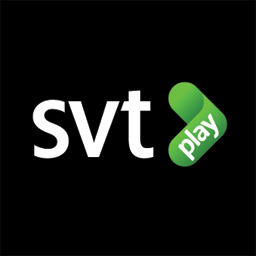
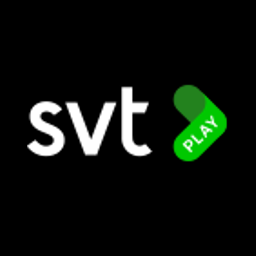
Update visuals
* New icon
* New fanart
* Added a default background if list item does not provide one

Changed region(s): [[0.0938, 0.3125, 0.625, 0.625], [0.6562, 0.3125, 0.9062, 0.6562]]

diff --git a/default.py b/default.py
@@ -1,6 +1,7 @@
 # -*- coding: utf-8 -*-
 import re
 import json
+import os
 import sys
 import time
 import urllib
@@ -48,6 +49,10 @@ PLUGIN_HANDLE = int(sys.argv[1])
 addon = xbmcaddon.Addon("plugin.video.svtplay")
 localize = addon.getLocalizedString
 xbmcplugin.setContent(PLUGIN_HANDLE, "tvshows")
+
+DEFAULT_FANART = os.path.join(
+  xbmc.translatePath(addon.getAddonInfo("path")+"/resources/images/").decode("utf-8"),
+  "background.png")
 
 common.plugin = addon.getAddonInfo('name') + ' ' + addon.getAddonInfo('version')
 common.dbg = helper.getSetting(S_DEBUG)
@@ -324,16 +329,20 @@ def addDirectoryItem(title, params, thumbnail = None, folder = True, live = Fals
          )
       ], replaceItems=True)
 
+  fanart = DEFAULT_FANART
   if info:
     li.setInfo("Video", info)
-    if "fanart" in info.keys():
-      li.setArt({"fanart": info["fanart"]})
+    if "fanart" in info:
+      fanart = info["fanart"]
+
+  li.setArt({"fanart": fanart})
+  common.log("fanart: "+fanart)
 
   xbmcplugin.addDirectoryItem(PLUGIN_HANDLE, sys.argv[0] + '?' + urllib.urlencode(params), li, folder)
 
 # Main segment of script
 ARG_PARAMS = helper.getUrlParameters(sys.argv[2])
-common.log(ARG_PARAMS)
+common.log("params: " + str(ARG_PARAMS))
 ARG_MODE = ARG_PARAMS.get("mode")
 ARG_URL = urllib.unquote_plus(ARG_PARAMS.get("url", ""))
 ARG_PAGE = ARG_PARAMS.get("page")
